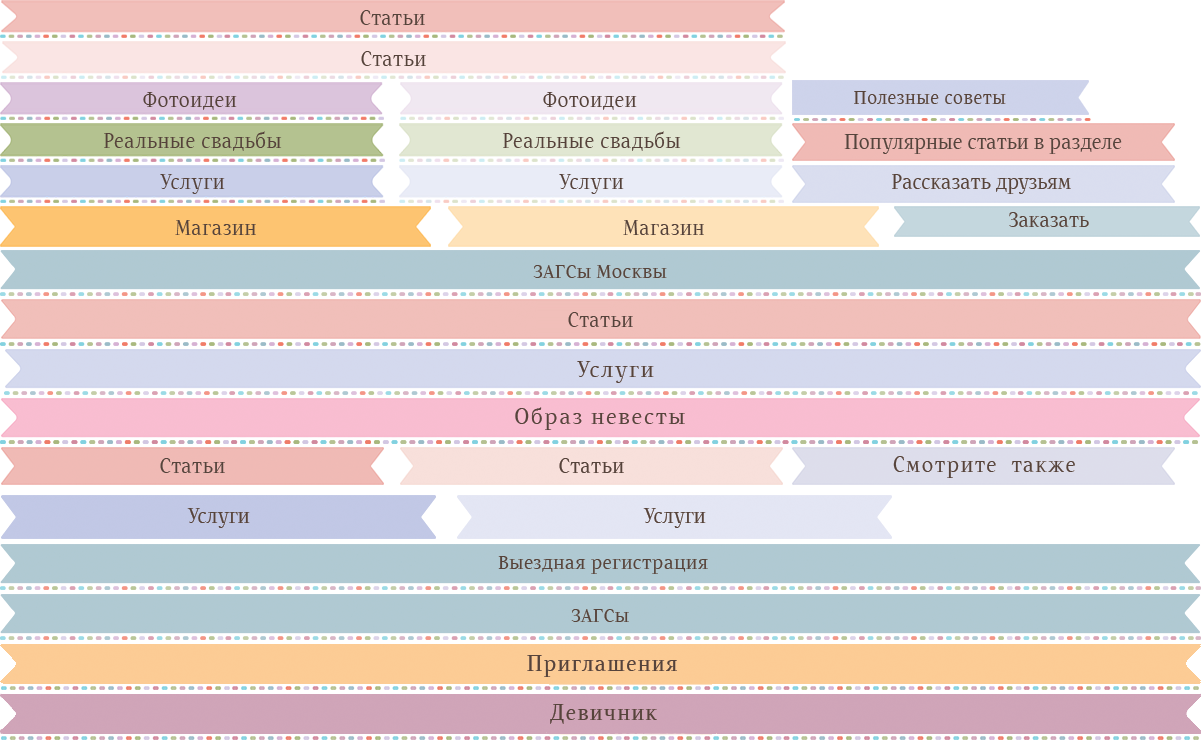
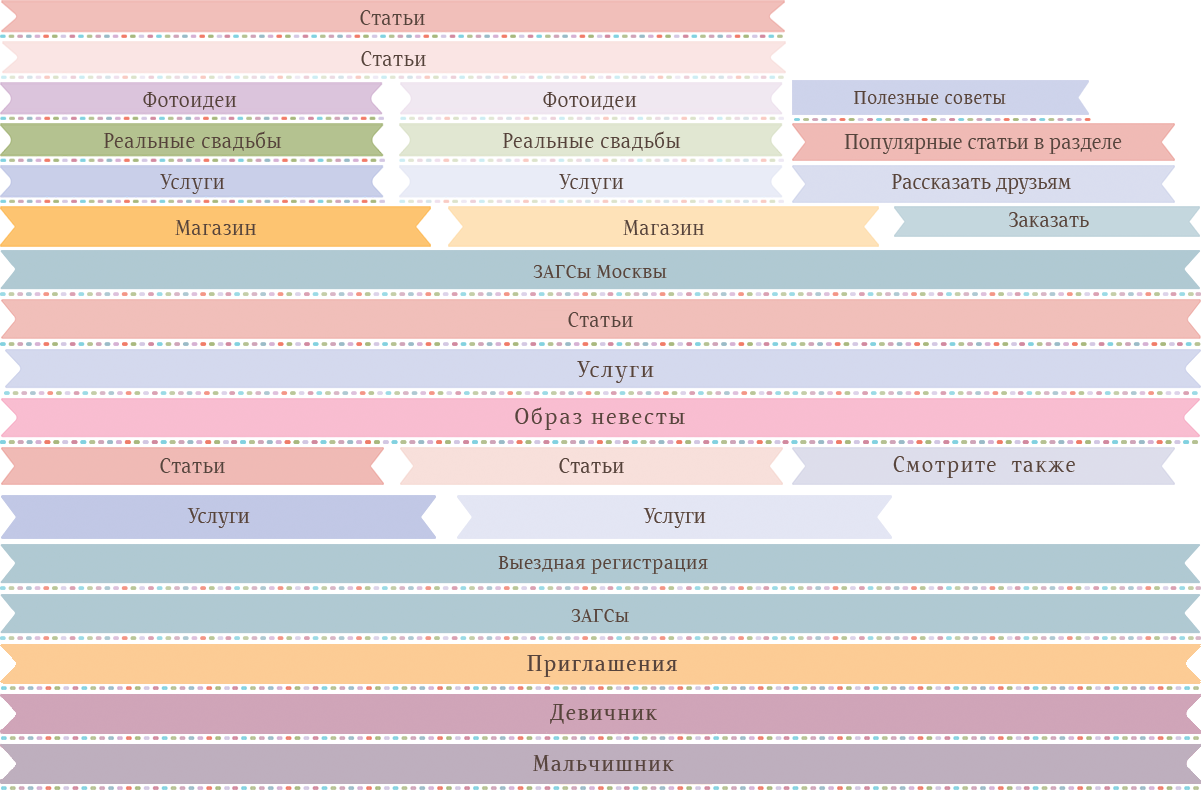
+ stag-party page

diff --git a/stag-party.html b/stag-party.html
@@ -59,8 +59,8 @@
                     <li class="party has-drop active">
                         <a href="#"><span>Девичник и мальчишник</span></a>
                         <ul class="drop">
-                            <li class="active"><a href="#">Девичник</a></li>
-                            <li><a href="#">Мальчишник</a></li>
+                            <li><a href="#">Девичник</a></li>
+                            <li class="active"><a href="#">Мальчишник</a></li>
                         </ul>
                     </li>
                     <li class="buyout">
@@ -95,11 +95,11 @@
         </header>
         <main id="main">
             <div class="container">
-                <h1 class="title title-hen-party-wide"><span>Девичник</span></h1>
-                <div class="ideas ideas-hen-party">
+                <h1 class="title title-stag-party-wide"><span>Мальчишник</span></h1>
+                <div class="ideas ideas-stag-party">
                     <div class="text-holder">
                         <span class="text-fotoideas"><img src="images/text-fotoideas.png" alt="Фотоидеи"/></span>
-                        <strong class="text-add-photos"><img src="images/text-add-photos-purple.png" alt="Создай девичник своей мечты добавляй фотографии в коллекции и делись с друзьями"/></strong>
+                        <strong class="text-add-photos"><img src="images/text-add-photos-dark-purple.png" alt="Создай мальчишник своей мечты добавляй фотографии в коллекции и делись с друзьями"/></strong>
                         <ul class="color-list">
                             <li><a href="#"><span style="background: #c92038;">&nbsp;</span></a></li>
                             <li><a href="#"><span style="background: #f9bfcb;">&nbsp;</span></a></li>
@@ -132,15 +132,15 @@
                             <div class="photo-box photo-box-large2 purple-color">
                                 <div class="caption">
                                     <div class="cell cell-sticker">
-                                        <span class="sticker purple-wide"></span>
+                                        <span class="sticker dark-purple-wide"></span>
                                     </div>
                                     <div class="cell">
-                                        <strong><a href="#">Как провести девичник?</a></strong>
+                                        <strong><a href="#">Где организовать мальчишник</a></strong>
                                     </div>
                                 </div>
                                 <a class="img-link" href="#">&nbsp;</a>
                                 <div class="photo">
-                                    <div class="cropper"><img src="images/img79.jpg" alt="" width="369" height="246"/></div>
+                                    <div class="cropper"><img src="images/img89.jpg" alt="" width="360" height="240"/></div>
                                 </div>
                             </div>
                         </li>
@@ -148,15 +148,15 @@
                             <div class="photo-box photo-box-large2 purple-color">
                                 <div class="caption">
                                     <div class="cell cell-sticker">
-                                        <span class="sticker purple-wide"></span>
+                                        <span class="sticker dark-purple-wide"></span>
                                     </div>
                                     <div class="cell">
-                                        <strong><a href="#">Где провести девичник?</a></strong>
+                                        <strong><a href="#">Как организовать мальчишник</a></strong>
                                     </div>
                                 </div>
                                 <a class="img-link" href="#">&nbsp;</a>
                                 <div class="photo">
-                                    <div class="cropper"><img src="images/img80.jpg" alt="" width="362" height="243"/></div>
+                                    <div class="cropper"><img src="images/img90.jpg" alt="" width="367" height="243"/></div>
                                 </div>
                             </div>
                         </li>
@@ -164,63 +164,15 @@
                             <div class="photo-box photo-box-large2 purple-color">
                                 <div class="caption">
                                     <div class="cell cell-sticker">
-                                        <span class="sticker purple-wide"></span>
+                                        <span class="sticker dark-purple-wide"></span>
                                     </div>
                                     <div class="cell">
-                                        <strong><a href="#">Подарки</a></strong>
+                                        <strong><a href="#">Сюрпризы для жениха</a></strong>
                                     </div>
                                 </div>
                                 <a class="img-link" href="#">&nbsp;</a>
                                 <div class="photo">
-                                    <div class="cropper"><img src="images/img81.jpg" alt="" width="357" height="243"/></div>
-                                </div>
-                            </div>
-                        </li>
-                        <li>
-                            <div class="photo-box photo-box-large2 purple-color">
-                                <div class="caption">
-                                    <div class="cell cell-sticker">
-                                        <span class="sticker purple-wide"></span>
-                                    </div>
-                                    <div class="cell">
-                                        <strong><a href="#">Тематика вечеринки</a></strong>
-                                    </div>
-                                </div>
-                                <a class="img-link" href="#">&nbsp;</a>
-                                <div class="photo">
-                                    <div class="cropper"><img src="images/img82.jpg" alt="" width="369" height="246"/></div>
-                                </div>
-                            </div>
-                        </li>
-                        <li>
-                            <div class="photo-box photo-box-large2 purple-color">
-                                <div class="caption">
-                                    <div class="cell cell-sticker">
-                                        <span class="sticker purple-wide"></span>
-                                    </div>
-                                    <div class="cell">
-                                        <strong><a href="#">Конкурсы и идеи</a></strong>
-                                    </div>
-                                </div>
-                                <a class="img-link" href="#">&nbsp;</a>
-                                <div class="photo">
-                                    <div class="cropper"><img src="images/img83.jpg" alt="" width="361" height="253"/></div>
-                                </div>
-                            </div>
-                        </li>
-                        <li>
-                            <div class="photo-box photo-box-large2 purple-color">
-                                <div class="caption">
-                                    <div class="cell cell-sticker">
-                                        <span class="sticker purple-wide"></span>
-                                    </div>
-                                    <div class="cell">
-                                        <strong><a href="#">Оформление</a></strong>
-                                    </div>
-                                </div>
-                                <a class="img-link" href="#">&nbsp;</a>
-                                <div class="photo">
-                                    <div class="cropper"><img src="images/img84.jpg" alt="" width="368" height="246"/></div>
+                                    <div class="cropper"><img src="images/img91.jpg" alt="" width="369" height="242"/></div>
                                 </div>
                             </div>
                         </li>
@@ -261,25 +213,12 @@
                             <div class="photo-box photo-box-large">
                                 <a class="img-link" href="#">&nbsp;</a>
                                 <div class="photo">
-                                    <div class="cropper"><img src="images/img87.jpg" alt="" width="356" height="245"/></div>
+                                    <div class="cropper"><img src="images/img92.jpg" alt="" width="359" height="257"/></div>
                                 </div>
                                 <div class="caption">
                                     <div class="cell">
+                                        <strong><a href="#">Стриптиз</a></strong>
                                         <span class="price">От 2 200 руб.</span>
-                                    </div>
-                                </div>
-                            </div>
-                        </li>
-                        <li>
-                            <div class="photo-box photo-box-large">
-                                <a class="img-link" href="#">&nbsp;</a>
-                                <div class="photo">
-                                    <div class="cropper"><img src="images/img88.jpg" alt="" width="355" height="244"/></div>
-                                </div>
-                                <div class="caption">
-                                    <div class="cell">
-                                        <strong><a href="#">Прокат лимузина</a></strong>
-                                        <span class="price">От 1 200 руб.</span>
                                     </div>
                                 </div>
                             </div>
@@ -297,7 +236,7 @@
                                 </div>
                                 <div class="caption">
                                     <div class="cell cell-sticker">
-                                        <span class="sticker purple">&nbsp;</span>
+                                        <span class="sticker dark-purple">&nbsp;</span>
                                     </div>
                                     <div class="cell">
                                         <strong><a href="#">Подушечка для колец</a></strong>
@@ -314,7 +253,7 @@
                                 </div>
                                 <div class="caption">
                                     <div class="cell cell-sticker">
-                                        <span class="sticker purple">&nbsp;</span>
+                                        <span class="sticker dark-purple">&nbsp;</span>
                                     </div>
                                     <div class="cell">
                                         <strong><a href="#">Корочка для свидетельства о браке</a></strong>
@@ -331,7 +270,7 @@
                                 </div>
                                 <div class="caption">
                                     <div class="cell cell-sticker">
-                                        <span class="sticker purple">&nbsp;</span>
+                                        <span class="sticker dark-purple">&nbsp;</span>
                                     </div>
                                     <div class="cell">
                                         <strong><a href="#">Бокалы для шампанского</a></strong>
@@ -348,7 +287,7 @@
                                 </div>
                                 <div class="caption">
                                     <div class="cell cell-sticker">
-                                        <span class="sticker purple">&nbsp;</span>
+                                        <span class="sticker dark-purple">&nbsp;</span>
                                     </div>
                                     <div class="cell">
                                         <strong><a href="#">Ручка для росписи</a></strong>
@@ -359,13 +298,14 @@
                         </li>
                         <li>
                             <div class="photo-box photo-box-large">
+                            <div class="photo-box photo-box-large">
                                 <a class="img-link" href="#">&nbsp;</a>
                                 <div class="photo">
                                     <div class="cropper"><img src="images/img15.jpg" alt="" width="364" height="285"/></div>
                                 </div>
                                 <div class="caption">
                                     <div class="cell cell-sticker">
-                                        <span class="sticker purple">&nbsp;</span>
+                                        <span class="sticker dark-purple">&nbsp;</span>
                                     </div>
                                     <div class="cell">
                                         <strong><a href="#">Лепестки роз, конфети, хлопушки</a></strong>
@@ -382,7 +322,7 @@
                                 </div>
                                 <div class="caption">
                                     <div class="cell cell-sticker">
-                                        <span class="sticker purple">&nbsp;</span>
+                                        <span class="sticker dark-purple">&nbsp;</span>
                                     </div>
                                     <div class="cell">
                                         <strong><a href="#">Корзины/кулечки для лепестков</a></strong>

diff --git a/css/style.css b/css/style.css
@@ -815,6 +815,16 @@ fieldset {
     height: 46px;
     background-position: 0 -694px;
 }
+
+.title.title-stag-party-wide {
+    margin-bottom: 20px;
+}
+.title.title-stag-party-wide span {
+    width: 1201px;
+    height: 46px;
+    background-position: 0 -744px;
+}
+
 .text-title {
     display: block;
     margin: 0;
@@ -1206,6 +1216,10 @@ fieldset {
     text-decoration: none;
     color: #bb7389;
 }
+.photo-box.purple-color .caption a:hover {
+    text-decoration: none;
+    color: #bb7389;
+}
 .photo-box .caption .date,
 .photo-box .caption .price{
     display: block;
@@ -1229,10 +1243,14 @@ fieldset {
 .photo-box .sticker.purple {
     background-position: -245px -82px;
 }
+.photo-box .sticker.dark-purple {
+    background-position: -367px -82px;
+}
 .photo-box .sticker.dark-blue-wide,
 .photo-box .sticker.pink-wide,
 .photo-box .sticker.orange-wide,
-.photo-box .sticker.purple-wide{
+.photo-box .sticker.purple-wide,
+.photo-box .sticker.dark-purple-wide{
     width: 46px;
     height: 59px;
 }
@@ -1247,6 +1265,9 @@ fieldset {
 }
 .photo-box .sticker.purple-wide {
     background-position: -269px -82px;
+}
+.photo-box .sticker.dark-purple-wide {
+    background-position: -318px -82px;
 }
 /* shop */
 .shop {
@@ -1704,6 +1725,10 @@ div.see-also ul > li{
     background: url(../images/bg-ideas-hen-party.jpg) no-repeat 50% 0;
     border-radius: 0;
 }
+.ideas.ideas-stag-party {
+    background: url(../images/bg-ideas-stag-party.jpg) no-repeat 50% 0;
+    border-radius: 0;
+}
 .ideas .text-holder {
     border: solid #f8fcfa;
     border-width: 2px 1px;
@@ -1725,6 +1750,9 @@ div.see-also ul > li{
 .ideas.ideas-hen-party .text-add-photos {
     margin-right: 90px;
 }
+.ideas.ideas-stag-party .text-add-photos {
+    margin-left: 110px;
+}
 .color-list {
     margin: 0 0 6px;
     padding: 0;
@@ -1732,6 +1760,9 @@ div.see-also ul > li{
 }
 .ideas.ideas-hen-party .color-list {
     margin-right: 80px;
+}
+.ideas.ideas-stag-party .color-list {
+    margin-left: 156px;
 }
 .color-list li {
     display: inline-block;
@@ -1795,8 +1826,9 @@ div.see-also ul > li{
 .ideas.ideas-invitations .button {
     background: #eee6dd;
 }
-.ideas.ideas-hen-party .button {
-    background: #fff;
+.ideas.ideas-hen-party .button,
+.ideas.ideas-stag-party .button{
+    background: #e1e1e0;
 }
 .banner .button:hover,
 .ideas .button:hover{
